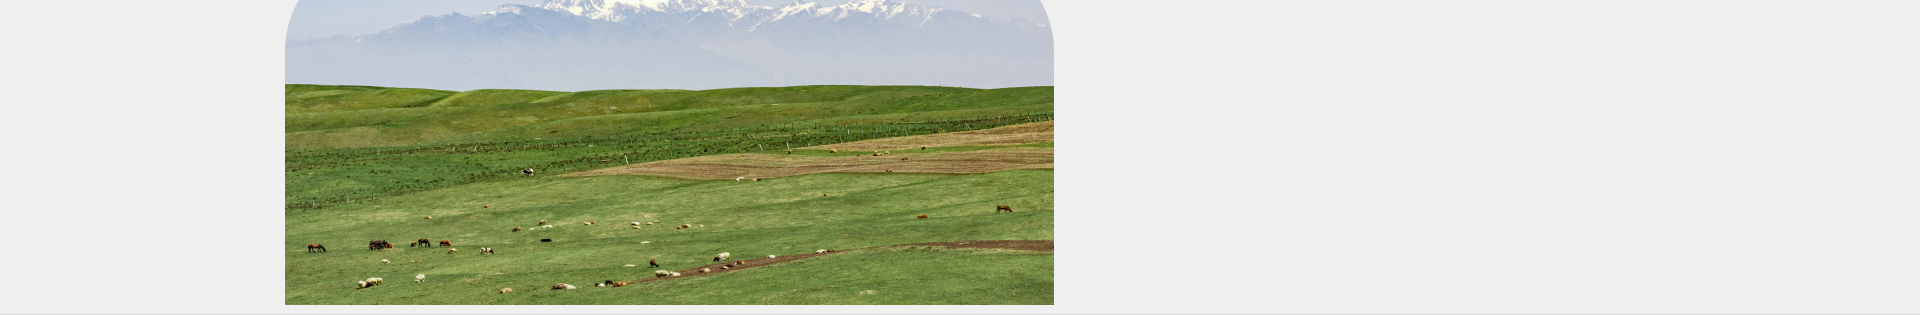
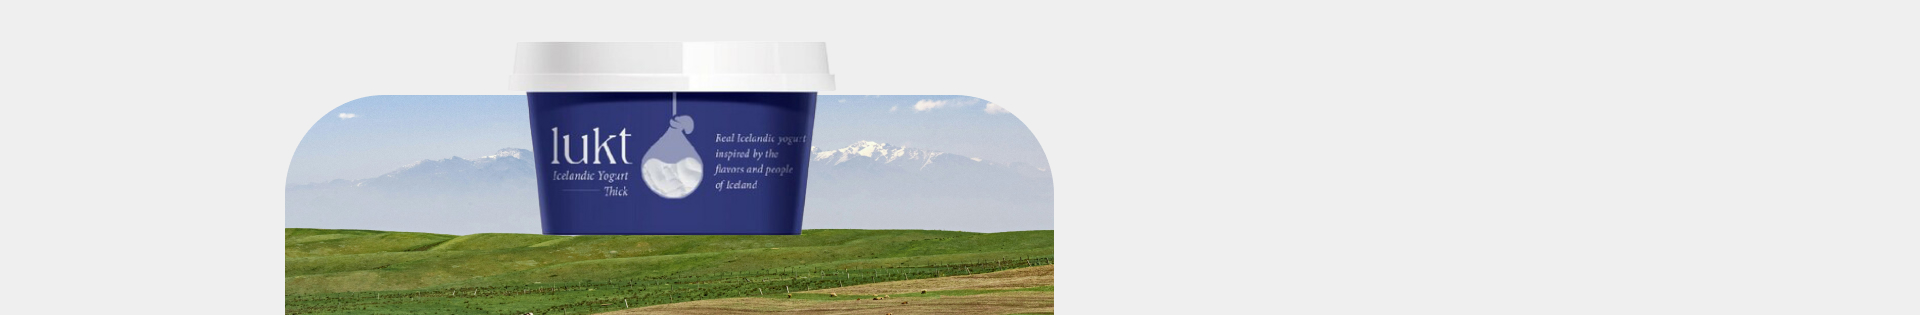
0704 학원

diff --git a/styles/index.css b/styles/index.css
@@ -1,49 +1,123 @@
-html,body {}
+html,body {font-family:'Pretendard', sans-serif;}
 #wrap {
     width:100%;
     max-width:1920px;
     margin:0 auto;
     
 }
-#wrap header {
+#wrap main {}
+/* 1.광고배너 */
+#wrap main .ad_wrap {}
+#wrap main .ad_wrap .swiper {}
+#wrap main .ad_wrap .swiper.adSwiper {position:relative;}
+#wrap main .ad_wrap .swiper.adSwiper .swiper-wrapper {position:relative;}
+#wrap main .ad_wrap .swiper.adSwiper .swiper-wrapper .swiper-slide {
+    position:relative;
+    width:100%;
+    height:845px;
+    background-size:cover;
+    background-position:center;
+}
+#wrap main .ad_wrap .swiper.adSwiper .swiper-wrapper .swiper-slide.slide1 {
+    background:url(../images/hd_slide001.jpg);
+}
+#wrap main .ad_wrap .swiper.adSwiper .swiper-wrapper .swiper-slide.slide2 {
+    background:url(../images/hd_slide001.jpg);
+}
+#wrap main .ad_wrap .swiper.adSwiper .swiper-wrapper .swiper-slide .ad_txt {
+    position:absolute;
+    top:444px;
+    left:0;
+    display:flex; align-items:flex-start;
+    gap:32px;
+}
+#wrap main .ad_wrap .swiper.adSwiper .swiper-wrapper .swiper-slide .ad_txt .ad_line {
+    width:195px; height:1px; background:#000; margin-top:5px;
+}
+
+#wrap main .ad_wrap .swiper.adSwiper .swiper-wrapper .swiper-slide .ad_txt .txt_area {}
+#wrap main .ad_wrap .swiper.adSwiper .swiper-wrapper .swiper-slide .ad_txt .txt_area h2 {
+    font-size:2.188rem; font-weight:600;
+    margin-bottom:17px;
+}
+#wrap main .ad_wrap .swiper.adSwiper .swiper-wrapper .swiper-slide .ad_txt .txt_area p {
+    font-size:1.375rem; font-weight:300;
+    line-height:180%;
+}
+#wrap main .ad_wrap .swiper.adSwiper .btn_counter {
+    position:absolute;
+    bottom:193px;
+    left:230px;
+    z-index:10;
     display:flex;
-    justify-content:space-between;
     align-items:center;
-    padding:15px 105px 0;
-    background:aqua;
+    gap:10px;
+    color:#000;
 }
-#wrap header h1 {
+#wrap main .ad_wrap .swiper.adSwiper .btn_counter img {
+    vertical-align: middle;
 }
-#wrap header h1 a {}
-#wrap header h1 a img {}
-#wrap header nav {}
-#wrap header nav .gnb {
-    background:pink;
-    display:flex;
-    flex-flow:row nowrap;
-    gap:50px;
+#wrap main .ad_wrap .swiper.adSwiper .btn_counter .prev_btn {}
+#wrap main .ad_wrap .swiper.adSwiper .btn_counter .prev_btn img {}
+#wrap main .ad_wrap .swiper.adSwiper .btn_counter .current_pg {
+    font-weight:600;
+    font-size:1.125rem;
 }
-#wrap header nav .gnb > li {
+#wrap main .ad_wrap .swiper.adSwiper .btn_counter .divider {}
+#wrap main .ad_wrap .swiper.adSwiper .btn_counter .total-pg {
+    font-weight:300;
+    font-size:1.125rem;
+}
+#wrap main .ad_wrap .swiper.adSwiper .btn_counter .next_btn {}
+#wrap main .ad_wrap .swiper.adSwiper .btn_counter .next_btn img {}
+/* 2.비전배너 */
+main .vision_wrap {
+    background:url(../images/bnr001.jpg);
+    height:315px;
+    position:relative;
+    text-align:center;
+    border-bottom:1px solid #DEDEDE;
+}
+main .vision_wrap .vision_txt {
+    position:absolute;
+    top:128.5px;
+    right:285px;
+}
+main .vision_wrap .vision_txt h2 {
+    font-size:1.375rem;
+    font-weight:500;
+    margin-bottom:21px;
+}
+main .vision_wrap .vision_txt p {
+    font-size:0.813rem;
+    font-weight:300;
+    margin-bottom:27px;
+    line-height:1.7;
     
 }
-#wrap header nav .gnb > li > a {}
-#wrap header nav .gnb > li .lnb_bg {
+main .vision_wrap .vision_txt span {
+    font-family:'Oooh Baby',serif;
+    letter-spacing:-0.2;
+    font-size:0.938rem;
+    color:#9A9A9A;
 }
-#wrap header nav .gnb > li .lnb_depth {/* 임시값... */
-    position: absolute;
-    top:100%;
-    left:0;
-    width:200px;
-    background: #fff;
-    border:1px solid #eee;
-    box-shadow:0 4px 10px rgba(0,0,0,0.1);
-    display:none;
-    z-index:100;
-}
-#wrap header nav .gnb > li .lnb_depth li {}
-#wrap header nav .gnb > li .lnb_depth li > a {}
-#wrap header .right_menu {}
-#wrap header .right_menu li {}
-#wrap header .right_menu li a {}
-#wrap header .right_menu li a img {}
-/* main부터 선택자 이어적으면 됨~~! */
+/* 3.best */
+main .best_wrap {}
+main .best_wrap .best_header {}
+main .best_wrap .best_header h2 {}
+main .best_wrap .best_header a {}
+main .best_wrap .best_header a span {}
+main .best_wrap .best_header a span img {}
+main .best_wrap .best_list {}
+main .best_wrap .best_list .best_card {}
+main .best_wrap .best_list .best_card a {}
+main .best_wrap .best_list .best_card a .best_img_wrap {}
+main .best_wrap .best_list .best_card a .best_img_wrap img {}
+main .best_wrap .best_list .best_card a .best_img_wrap .best_icon {}
+main .best_wrap .best_list .best_card a .best_img_wrap .best_icon a {}
+main .best_wrap .best_list .best_card a .best_img_wrap .best_icon a img {}
+main .best_wrap .best_list .best_card a .best_txt {}
+main .best_wrap .best_list .best_card a .best_txt .product_name {}
+main .best_wrap .best_list .best_card a .best_txt .product_price {}
+main .best_wrap .best_list .best_card a .best_txt .product_price .discount {}
+main .best_wrap .best_list .best_card a .best_txt .product_price .price {}

diff --git a/index.html b/index.html
@@ -6,7 +6,8 @@
     <meta name="keywords" content="룩트, lukt, 룩트요거트, 요거트">
     <meta name="viewport" content="width=device-width, initial-scale=1.0">
     <title>룩트 요거트</title>
-    <link rel="stylesheet" as="style" crossorigin href="https://cdn.jsdelivr.net/gh/orioncactus/pretendard@v1.3.9/dist/web/static/pretendard-dynamic-subset.min.css" />
+    <link rel="stylesheet" crossorigin href="https://cdn.jsdelivr.net/gh/orioncactus/pretendard@v1.3.9/dist/web/static/pretendard-dynamic-subset.min.css" />
+    <link rel="preconnect" href="https://fonts.googleapis.com">
     <link rel="stylesheet" href="https://unpkg.com/swiper/swiper-bundle.min.css">
     <link href="./styles/reset.css" rel="stylesheet">
     <link href="./styles/common.css" rel="stylesheet">
@@ -24,7 +25,7 @@
             <!-- s:메뉴 -->
             <nav>
                 <ul class="gnb">
-                    <li><a href="#">요거트&쇼핑</a>
+                    <li><a href="#" class="yogurt_on">요거트&쇼핑</a>
                     <!-- s:요거트&쇼핑 서브메뉴 위치 -->
                         <div class="lnb_bg">
                             <ul class="lnb_depth">
@@ -96,19 +97,34 @@
                             <div class="swiper-slide slide1">
                                 <div class="ad_txt">
                                     <div class="ad_line"></div>
-                                    <h2>버터에 풍미를 더하다</h2>
-                                    <p>감칠맛 가득! 다시마 버터부터<br>고소한 시나몬피칸 버터까지</p>
+                                    <div class="txt_area">
+                                        <h2>버터에 풍미를 더하다</h2>
+                                        <p>감칠맛 가득! 다시마 버터부터<br>고소한 시나몬피칸 버터까지</p>
+                                    </div>
+                                </div>
+                            </div>
+                            <div class="swiper-slide slide2"><!-- 슬라이드2번째 -->
+                                <div class="ad_txt">
+                                    <div class="ad_line"></div>
+                                    <div class="txt_area">
+                                        <h2>버터에 풍미를 더하다</h2>
+                                        <p>감칠맛 가득! 다시마 버터부터<br>고소한 시나몬피칸 버터까지</p>
+                                    </div>
                                 </div>
                             </div>
                         </div>
                         <!-- 왼, 오 버튼 -->
-                        <div class="swiper-button-prev"></div>
-                        <div class="swiper-button-next"></div>
+                        <div class="btn_counter">
+                            <a class="prev_btn"><img src="./images/prev001.png" alt=""></a>
+                            <span class="current_pg">01</span>
+                            <span class="divider">|</span>
+                            <span class="total-pg">03</span>
+                            <a class="next_btn"><img src="./images/next001.png" alt=""></a>
+                        </div>
                     </div>
             </section>
             <!-- 2.비전배너 -->
             <section class="vision_wrap">
-                <img src="./images/yogurt.png" alt="">
                 <div class="vision_txt">
                     <h2>룩트의 비전은 건강한 미식경험입니다.</h2>
                     <p>먹는 것이 매순간 행복한 경험이 되는 제품을 만듭니다.<br>모든 사람이 쉽고 간편하게 건강한 미식을 경험하게 해드리겠습니다.</p>
@@ -287,7 +303,6 @@
                             </div>
                         </div>
                     </div>
-                </div>
             </section>
             <!-- 8. 레시피 배너 -->
             <section class="recipe_wrap">

diff --git a/styles/common.css b/styles/common.css
@@ -1,25 +1,17 @@
 /* main, footer */
-html,body {}
-#wrap {
-    width:100%;
-    max-width:1920px;
-    margin:0 auto;
-    
-}
 #wrap header {
     display:flex;
     justify-content:space-between;
     align-items:center;
-    padding:15px 105px 0;
     background:aqua;
+    height:75px;
+    padding:15px 90px 0;
 }
-#wrap header h1 {
-}
+#wrap header h1 {}
 #wrap header h1 a {}
 #wrap header h1 a img {}
 #wrap header nav {}
 #wrap header nav .gnb {
-    background:pink;
     display:flex;
     flex-flow:row nowrap;
     gap:50px; 
@@ -27,23 +19,35 @@ html,body {}
 #wrap header nav .gnb > li {
     
 }
-#wrap header nav .gnb > li > a {}
+#wrap header nav .gnb > li .yogurt_on {color:#888;}
+#wrap header nav .gnb > li > a {
+    font-size:1.125rem;
+}
 #wrap header nav .gnb > li .lnb_bg {
+    position:relative;
 }
 #wrap header nav .gnb > li .lnb_depth {/* 임시값... */
     position: absolute;
-    top:100%;
+    top:22px;
     left:0;
-    width:200px;
+    width:125px;
     background: #fff;
-    border:1px solid #eee;
-    box-shadow:0 4px 10px rgba(0,0,0,0.1);
-    display:none;
     z-index:100;
+    width:125px;
+    padding:14px 18px;
+    display:none;
 }
-#wrap header nav .gnb > li .lnb_depth li {}
-#wrap header nav .gnb > li .lnb_depth li > a {}
-#wrap header .right_menu {}
+#wrap header nav .gnb > li .lnb_depth li {
+    margin-bottom:15px;
+}
+#wrap header nav .gnb > li .lnb_depth li > a {
+    font-size: 0.9375rem;
+    letter-spacing:-0.02rem;
+}
+#wrap header .right_menu {
+    display:flex; 
+    gap:22px;
+}
 #wrap header .right_menu li {}
 #wrap header .right_menu li a {}
 #wrap header .right_menu li a img {}

diff --git a/styles/reset.css b/styles/reset.css
@@ -6,7 +6,7 @@ form,fieldset,legend,input,button,select,option,textarea,
 em,strong,sub,sup,br,span,del,s,q,mark,code,img,a,
 table,thead,tbody,tfoot,tr,td,th {
     margin:0; padding:0; box-sizing:border-box; /* 가로크기에 padding값을 더하는게 기본값이면 이걸 설정함으로써 여백을 따로 잡아줌 */
-    line-height:1; letter-spacing:-0.02em; word-spacing:0; /* 대부분 자간 설정을 -2로 해놨기에 0에서 -0.02em으로 변경 */
+    line-height:1; letter-spacing:0em; word-spacing:0; /* 대부분 자간 설정을 -2로 해놨기에 0에서 -0.02em으로 변경 */
     font-size:1em; font-weight:400; font-style:normal;
     color:#000;
     font-family:'pretendard',sans-serif;

diff --git a/script/main.js b/script/main.js
@@ -1,24 +1,4 @@
-/* const adSwiper = new Swiper('.adSwiper', {
-    loop: true,
-    navigation: {
-    nextEl: '.swiper-button-next',
-    prevEl: '.swiper-button-prev',
-    },
-});
-
-// 탭 슬라이드
-const tabSwiper = new Swiper('.tabSwiper', {
-    slidesPerView: 1,
-    pagination: {
-    el: '.swiper-pagination',
-    },
-});
-
-// 리뷰 슬라이드
-const reviewSwiper = new Swiper('.reviewSwiper', {
-    slidesPerView: 1,
-    pagination: {
-    el: '.swiper-pagination',
-    clickable: true,
-    },
-}); */
+let adSwiper = new Swiper('.adSwiper',{
+    direction:'horizontal',
+    autoplay:{delay:1000,}
+})
